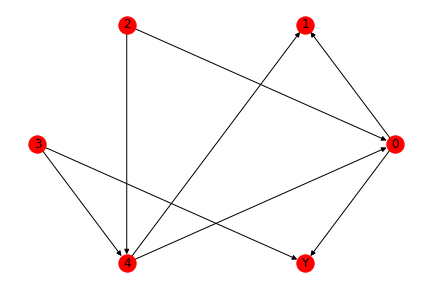
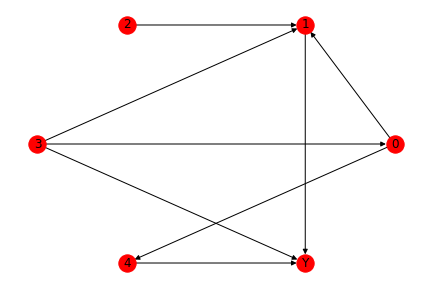
new structure

diff --git a/cgkit/graph/causalgraph.py b/cgkit/graph/causalgraph.py
@@ -4,7 +4,7 @@
 
 import numpy as np
 import networkx as nx
-import random
+import pandas as pd
 
 class CausalGraph:
     """Simulate a full causal graph.
@@ -55,7 +55,7 @@ class CausalGraph:
         self.G.add_nodes_from(self.nodelist)
 
         if edges == "random":
-            self.edges = self.random_edges()
+            self.edges = self._random_edges()
             for e in self.edges:
                 self.G.add_edge(*e)
         else:
@@ -63,9 +63,10 @@ class CausalGraph:
             for e in self.edges:
                 self.G.add_edge(*e)
 
-        self.parameters = self.parameters()
+        self.parameters = self._parameters()
 
-    def random_edges(self):
+
+    def _random_edges(self):
         """ Randomly constructs causal edges between variables. Internal
         """
         e = list()
@@ -100,7 +101,7 @@ class CausalGraph:
         return fig
 
 
-    def parameters(self):
+    def _parameters(self):
         """ Draw parameters for linear relation between variables. Internal
         """
         return {n: {k[0]: self.parameter_space() for k in self.G.in_edges(n)} for n in self.G.nodes}
@@ -134,8 +135,15 @@ class CausalGraph:
                         else:
                             X[:,par] += self.parameters[par][var]*X[:,var] + self.noise_space(nobs)
                             done[par] = True
-        self.X = X
-        return self.X
+        # Set attributes in self
+        self.X = X[:,:-1]
+        self.y =  X[:,-1]
+        self.df = pd.DataFrame(X)
+        self.df.columns = self.nodelist
+
+        # Return relevant attributes
+        return (self.X, self.y), self.df
+
 
     def pintervene(self, effect, cause, parameter, unsafe = False):
         """ Intervene on a specific parameter.
@@ -147,7 +155,7 @@ class CausalGraph:
                 effect.
             parameter (float): new parameter value.
             unsafe (bool): if unsafe you can create parameters for relations that
-                do not exist. Default False. 
+                do not exist. Default False.
         """
         if not isinstance(parameter,(float, int)):
             raise ValueError("parameter must be a number.")
@@ -160,3 +168,7 @@ class CausalGraph:
 
         self.parameters[effect][cause] = parameter
         return self
+
+
+    def vintervene(self, cause, transformation):
+        pass

diff --git a/readmecode.py b/readmecode.py
@@ -1,0 +1,43 @@
+
+import numpy as np
+import networkx as nx
+
+import matplotlib.pyplot as plt
+import pandas as pd
+import seaborn as sns
+
+from cgkit import CausalGraph
+
+import statsmodels.api as sm
+import statsmodels.formula.api as smf
+
+
+C = CausalGraph(5,
+                density =0.8,
+                seed = 5,
+                parameter_space = lambda: np.random.randint(-10,11)
+                )
+C.draw_graph()
+#plt.savefig("figs/examplegraph.png")
+
+
+(X,y), df = C.yield_dataset(1000)
+
+
+with sns.color_palette("BrBG_d"):
+    sns.pairplot(df)
+#    plt.savefig('figs/pairs.png')
+
+C.parameters
+
+C.pintervene(effect = 4, cause = 0, parameter = 5)
+(Xp,yp), dfp = C.yield_dataset(1000)
+
+
+df['Intervention'] = 'No'
+dfp['Intervention'] = 'Yes'
+
+plot = pd.concat([df, dfp])
+
+sns.pairplot(plot, hue = 'Intervention', palette = 'BrBG')
+#plt.savefig("figs/pairs2.png")

diff --git a/cgkit/reg/__init__.py b/cgkit/reg/__init__.py
@@ -1,0 +1,1 @@
+from .invariantregression import InvariantRegressionModel

diff --git a/cgkit/__init__.py b/cgkit/__init__.py
@@ -1,0 +1,2 @@
+from .graph import *
+from .reg import * 

diff --git a/README.md b/README.md
@@ -5,7 +5,7 @@ Simulating random causal graphs for experimenting with various regression techni
 
 the `CausalGraph` class simulates random causal graphs (these are directed and acyclic, although im not entirely sure if this is required). By default the generator is not seeded, but you can simply set a seed if you want to.
 ```python
-from data.causalgraph import CausalGraph
+from cgkit import CausalGraph
 
 C = CausalGraph(5,
                 density =0.8,
@@ -16,36 +16,38 @@ C.draw_graph()
 ```
 will yield a graph like
 
+
 <p align="center">
-<img src="figs/examplegraph.png">
+<img src="figs/examplegraph.png" width = "60%">
 </p>
 
 Which shows the simulated causal relation between each variable. Parameters governing the relation between the variables are stored in `C.parameters` as a dictionary with one key for each variable. Within each key is then a dictionary of `{ancestor:parameter}` pairs
 
 ```
-{0: {4: -6, 2: 5},
- 1: {0: -8, 4: -3},
+{0: {3: -1},
+ 1: {0: 0, 3: -1, 2: -1},
  2: {},
  3: {},
- 4: {2: -2, 3: -1},
- 'Y': {3: -7, 0: -3}}
+ 4: {0: 5},
+ 'Y': {3: 8, 1: -3, 4: 6}}
 ```
 The parameters are drawn randomly (in this case as integers between -10 and 10). We can simulate a row-column dataset with
 ```python
-C.yield_dataset(nobs = 1000)
+(X,y), df = C.yield_dataset(1000)
 ```
-which will give a numpy array with data which looks like:
+where X and y are numpy arrays, while df is a pandas dataframe containing both X and y. Plotting these variables will look like
 
 <p align="center">
-<img src="figs/pairs.png">
+<img src="figs/pairs.png"  width = "60%">
 </p>
 
 Next we can intervene on one of the parameters in the network using `pintervene`
 ```python
-C.pintervene(effect = 0, cause = 2, parameter = -5)
+C.pintervene(effect = 4, cause = 0, parameter = 5)
+(Xp,yp), dfp = C.yield_dataset(1000)
 ```
 This code changes the parameter in the equation X0 = 5*X2 to a 2 (i.e. X0 = -5*X2). When overlaying the new and old dataset we get a figure like
 
 <p align="center">
-<img src="figs/pairs2.png">
+<img src="figs/pairs2.png" width = "60%">
 </p>
